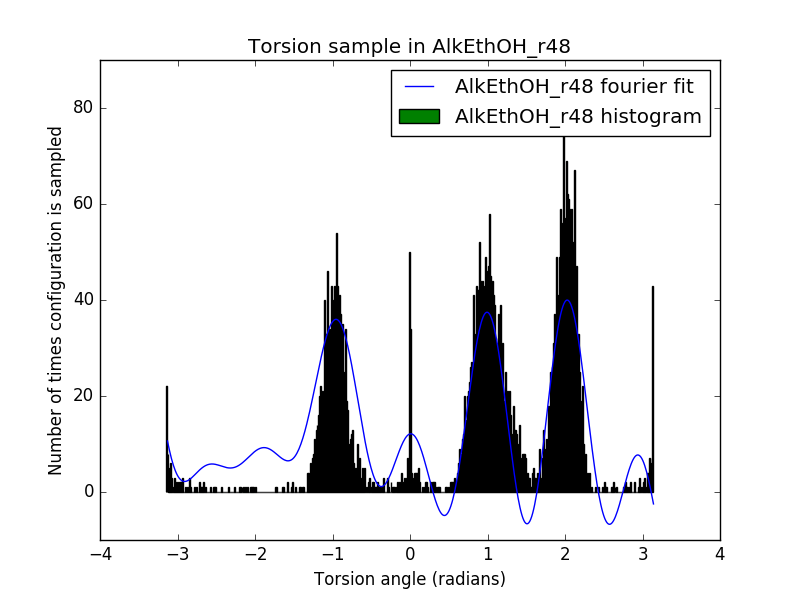
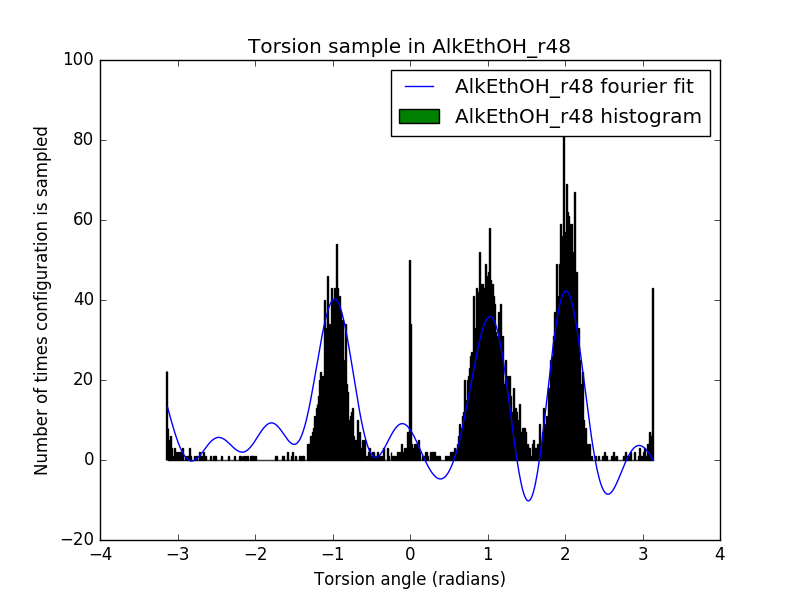
Fit without artificially populating all bins

diff --git a/single-molecule-property-generation/least_squares_fit_example.py b/single-molecule-property-generation/least_squares_fit_example.py
@@ -509,9 +509,9 @@ num_bins = 500
 
 plt.figure()
 (n1,bins1,patch1) = plt.hist(torsion_r48_a,num_bins,label='AlkEthOH_r48 histogram',color='green')
-for i,j in enumerate(n1):
-	if j==0.:
-           n1[i]=5.
+#for i,j in enumerate(n1):
+#	if j==0.:
+#           n1[i]=5.
 
 popt, pcov = sci.curve_fit(fourier, bins1[1:], n1, [1.0] + [1.0,1.0,0.0]*6,maxfev=100000)
 plt.plot(bins1[1:],fourier(bins1[1:],*popt),label='AlkEthOH_r48 fourier fit')
